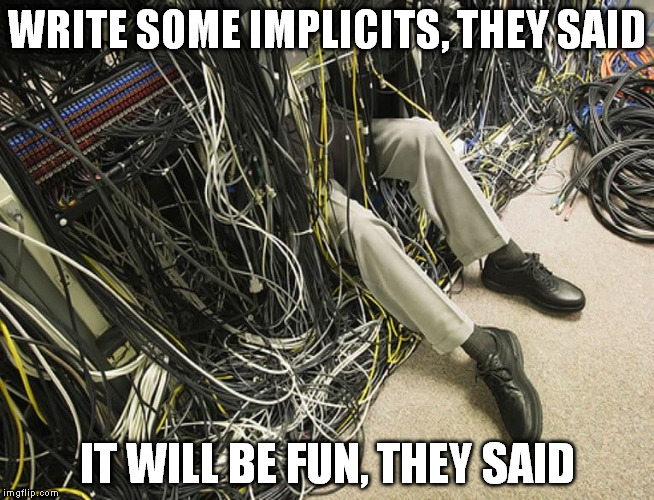
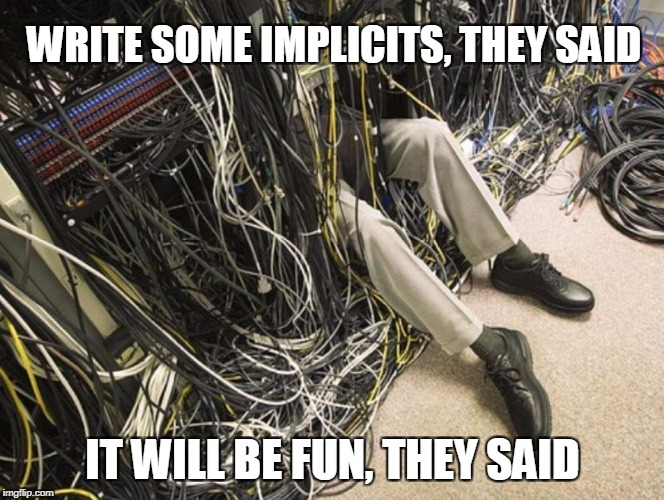
Visual touch-ups

diff --git a/presentation/style.css b/presentation/style.css
@@ -1,5 +1,5 @@
 .remark-slide-number {
-	/*display: none;*/
+	display: none;
   font-family: sans-serif;
 }
 
@@ -35,6 +35,10 @@ code {
 
 .smallCode .remark-code {
   font-size: 19.5px;
+}
+
+pre {
+  margin-top: 0px;
 }
 
 pre code {
@@ -92,8 +96,8 @@ a {
 }
 
 .caption {
-	position: relative;
-	top: 190px;
+  position: absolute;
+  bottom: 60px;
 }
 
 .intro .caption {
@@ -113,7 +117,7 @@ a {
 
 .intro h1 {
 	line-height: 1.2em;
-	font-size: 1.05em !important;
+	font-size: 1.00em !important;
 }
 
 
@@ -122,7 +126,7 @@ a {
 }
 
 .transition {
-	background-color: rgb(76, 102, 164);
+	background-color: rgb(41, 44, 47);
 	line-height: 1.7em;
 	font-size: 2.8em
 }
@@ -297,24 +301,29 @@ blockquote cite:before {
 }
 
 .theMatrix img {
+  position: absolute;
+  top: 10px;
   width: 700px;
+  left: 50%; 
+  transform: translateX(-50%);
 }
 
 .terminator img {
   position: absolute;
   height: 500px;
-  left: 5%;
+  top: 90px;
+  left: 6%;
 }
 
 .oldRobot img {
   position: absolute;
   height: 500px;
-  right: 5%;
+  top: 90px;
+  right: 6%;
 }
 
 .implicits img {
   height: 450px;
-  border-radius: 10px;
   border:1px solid white;
 }
 

diff --git a/presentation/presentation.html b/presentation/presentation.html
@@ -12,7 +12,7 @@ class: center, middle, transition, intro
 
 #  Sharing Is Caring – How to Let the Compiler Know What You're Thinking
 
-.caption[Daniel Beskin]
+.centered.caption[Daniel Beskin]
 
 ???
 - This talk is going to be about how we as Scala developers can communicate with the compiler
